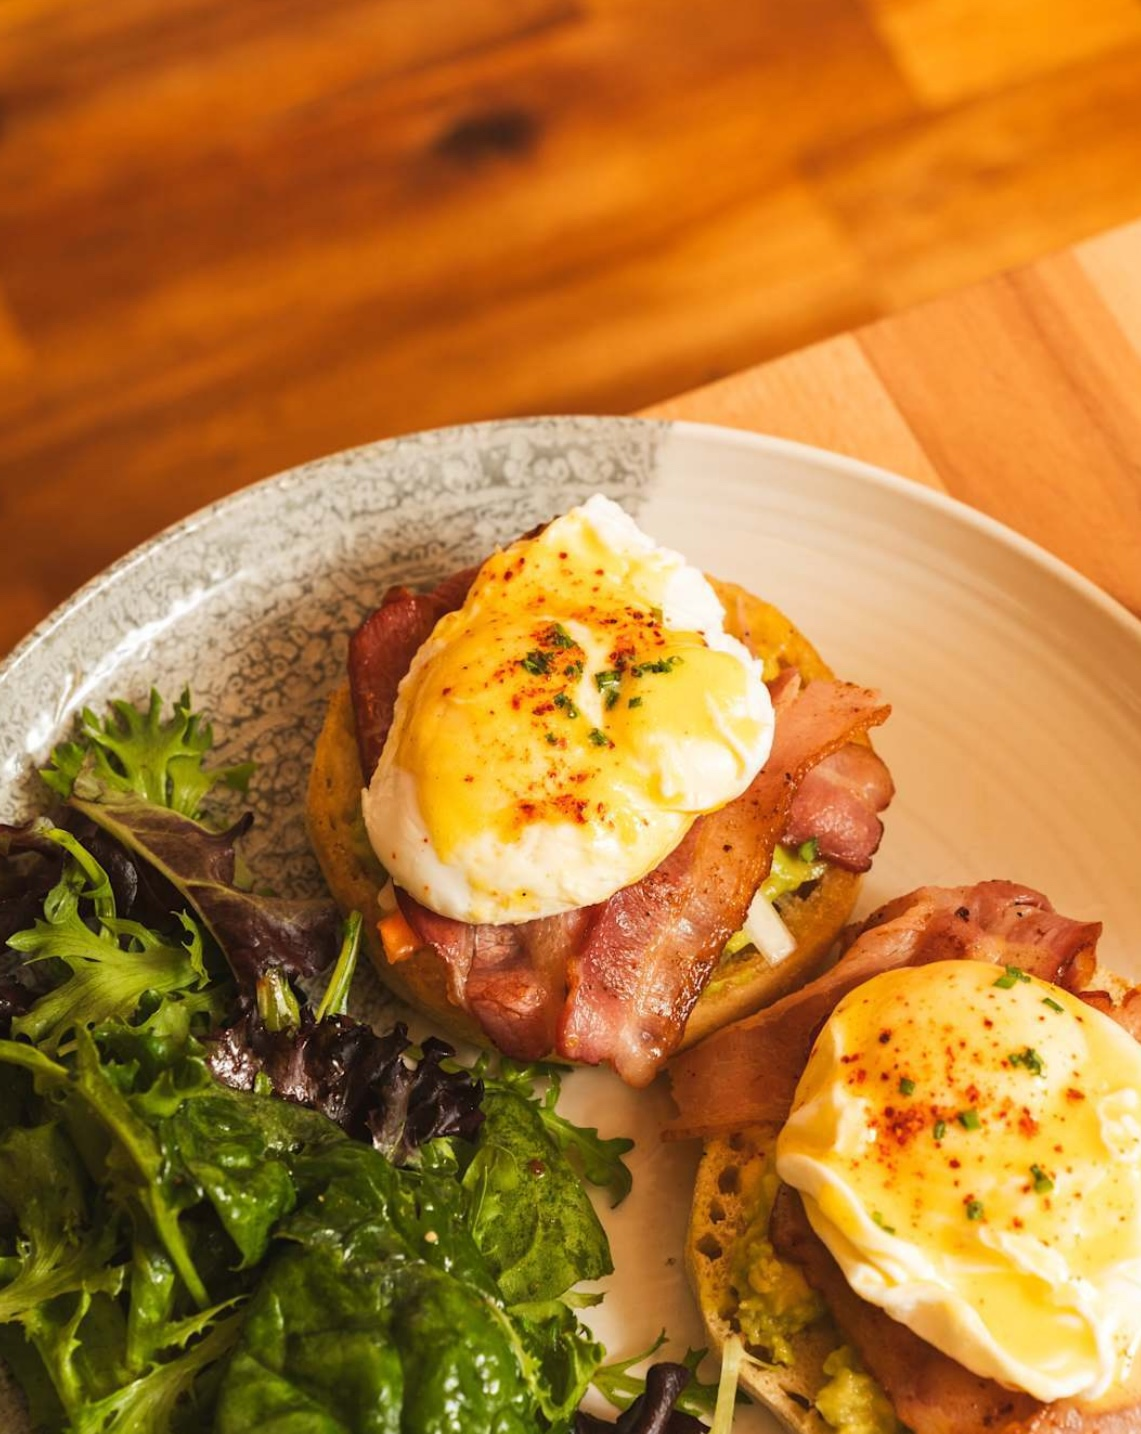
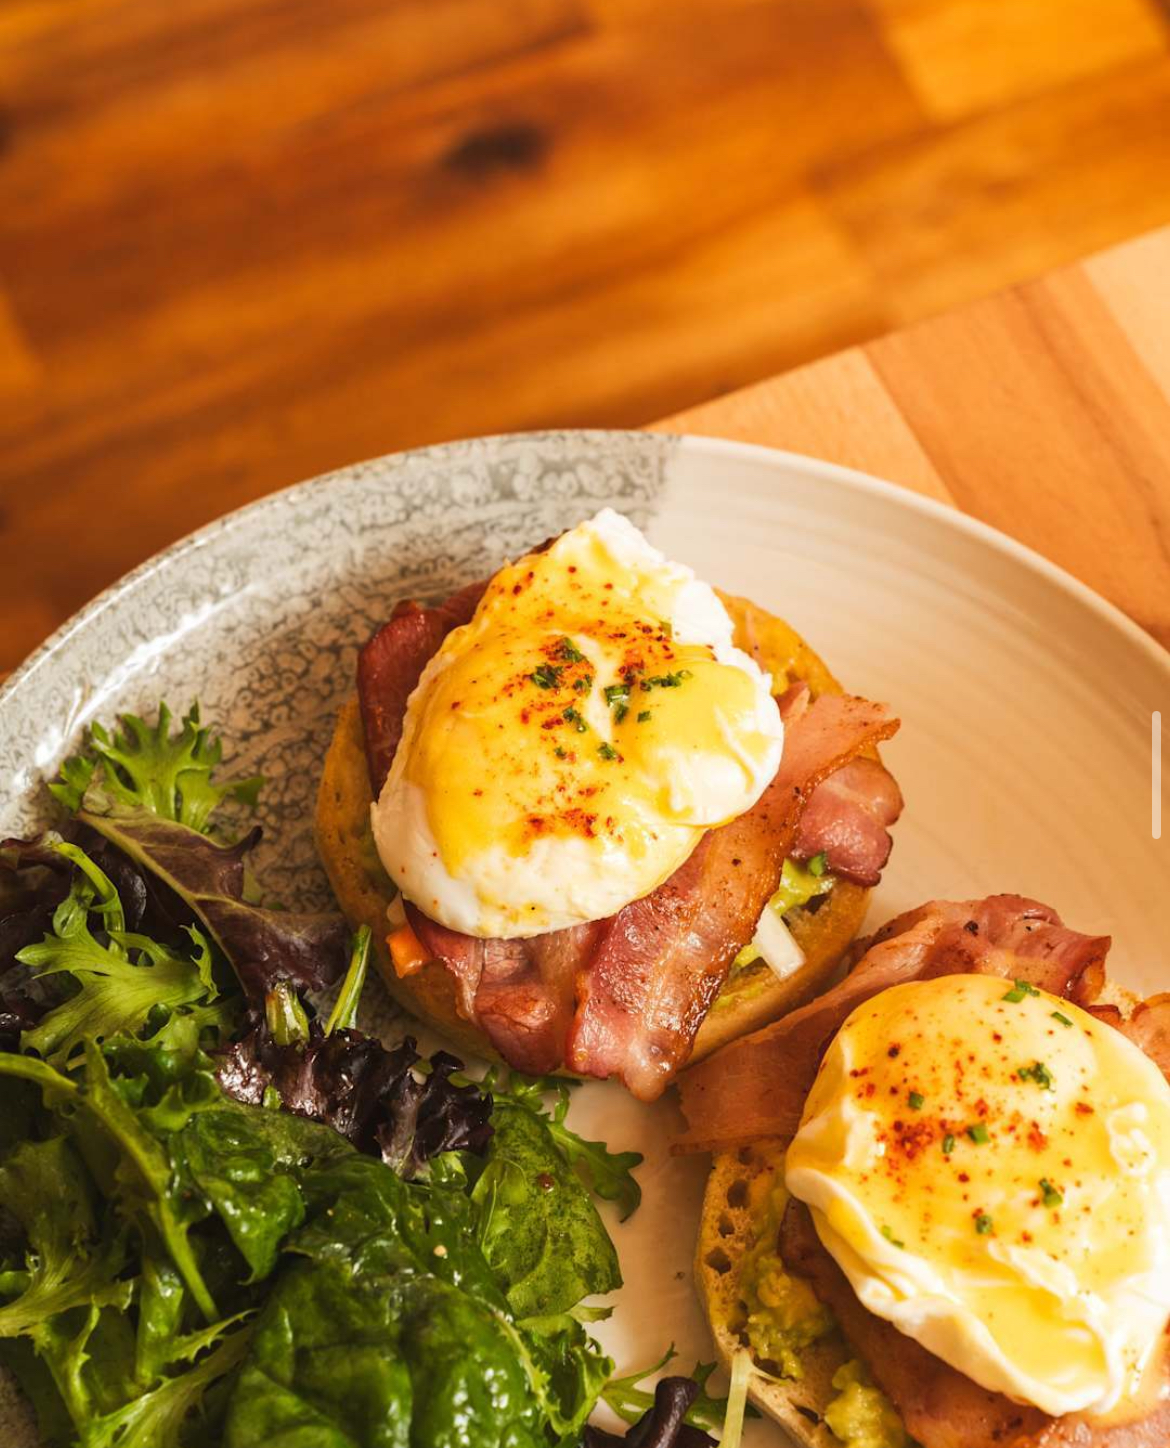
formule: titre overlay desktop + cadre mobile aligne, recentrage bacon

diff --git a/src/index.css b/src/index.css
@@ -540,6 +540,25 @@ button:focus-visible {
   flex-shrink: 0; /* la photo garde sa taille, c'est le texte qui s'adapte */
 }
 
+.formuladish-frame {
+  position: relative; /* repère pour le titre posé sur la photo */
+  flex-shrink: 0; /* le cadre garde sa taille, comme l'image avant */
+}
+
+.formuladish-title {
+  position: absolute; /* posé sur la photo, sans pousser la mise en page */
+  top: 12%;
+  left: 0;
+  right: 0;
+  text-align: center;
+  font-family: serif; /* comme le titre de la carte formule sur l'accueil */
+  color: #ffe4c3; /* crème du site, comme la carte formule */
+  font-size: 1.75rem;
+  line-height: 1.1;
+  text-shadow: 0 2px 8px rgba(0, 0, 0, 0.45); /* lisible sur photo claire ou foncée */
+  pointer-events: none; /* le texte ne bloque pas les clics */
+}
+
 .dish-img { aspect-ratio: 7 / 6; }          /* 140×120 : le navigateur réserve le cadre avant l'image */
 .formuladish-img { aspect-ratio: 7 / 10; }  /* 140×200 : idem */
 
@@ -618,6 +637,16 @@ button:focus-visible {
     height: 275px;
     display: block;
     margin: 0 auto;
+  }
+
+  .formuladish-frame {
+    width: 100%; /* même boîte que l'image seule avant */
+    max-width: 430px;
+    margin: 0 auto;
+  }
+
+  .formuladish-title {
+    display: none; /* mobile : pas de titre, la carte garde son format d'origine */
   }
 
   /* Header compact : boutons plus petits pour tenir sur 360px */

diff --git a/src/components/Menu.tsx b/src/components/Menu.tsx
@@ -1,5 +1,5 @@
 import menulogo from '../assets/menulogo.png';
-import brunch from '../assets/formuleBrunch.jpg';
+import brunch from '../assets/baconEgg2.jpg';
 import avocadoEgg from '../assets/avocadoEgg.jpg';
 import salmonEgg from '../assets/salmonEgg.jpg';
 import baconEgg from '../assets/baconEgg.jpg';
@@ -184,7 +184,14 @@ export default function Menu({ en = false }: { en?: boolean }) {
         title={en ? 'Our Brunch Set Menu' : 'Notre Formule Brunch'}
       >
         <article className="dish">
-          <img src={brunch} alt="Formule brunch" className="formuladish-img" />
+          <div className="formuladish-frame">
+            <img src={brunch} alt="Formule brunch" className="formuladish-img" />
+            <span className="formuladish-title" aria-hidden="true">
+              Formule
+              <br />
+              Brunch
+            </span>
+          </div>
           <div className="dish-text">
             <h4>Formule Brunch - 27,90</h4>
             <p>{en ? 'Savory or sweet dish of your choice' : 'Plat salé ou Sucré au choix'}</p>
